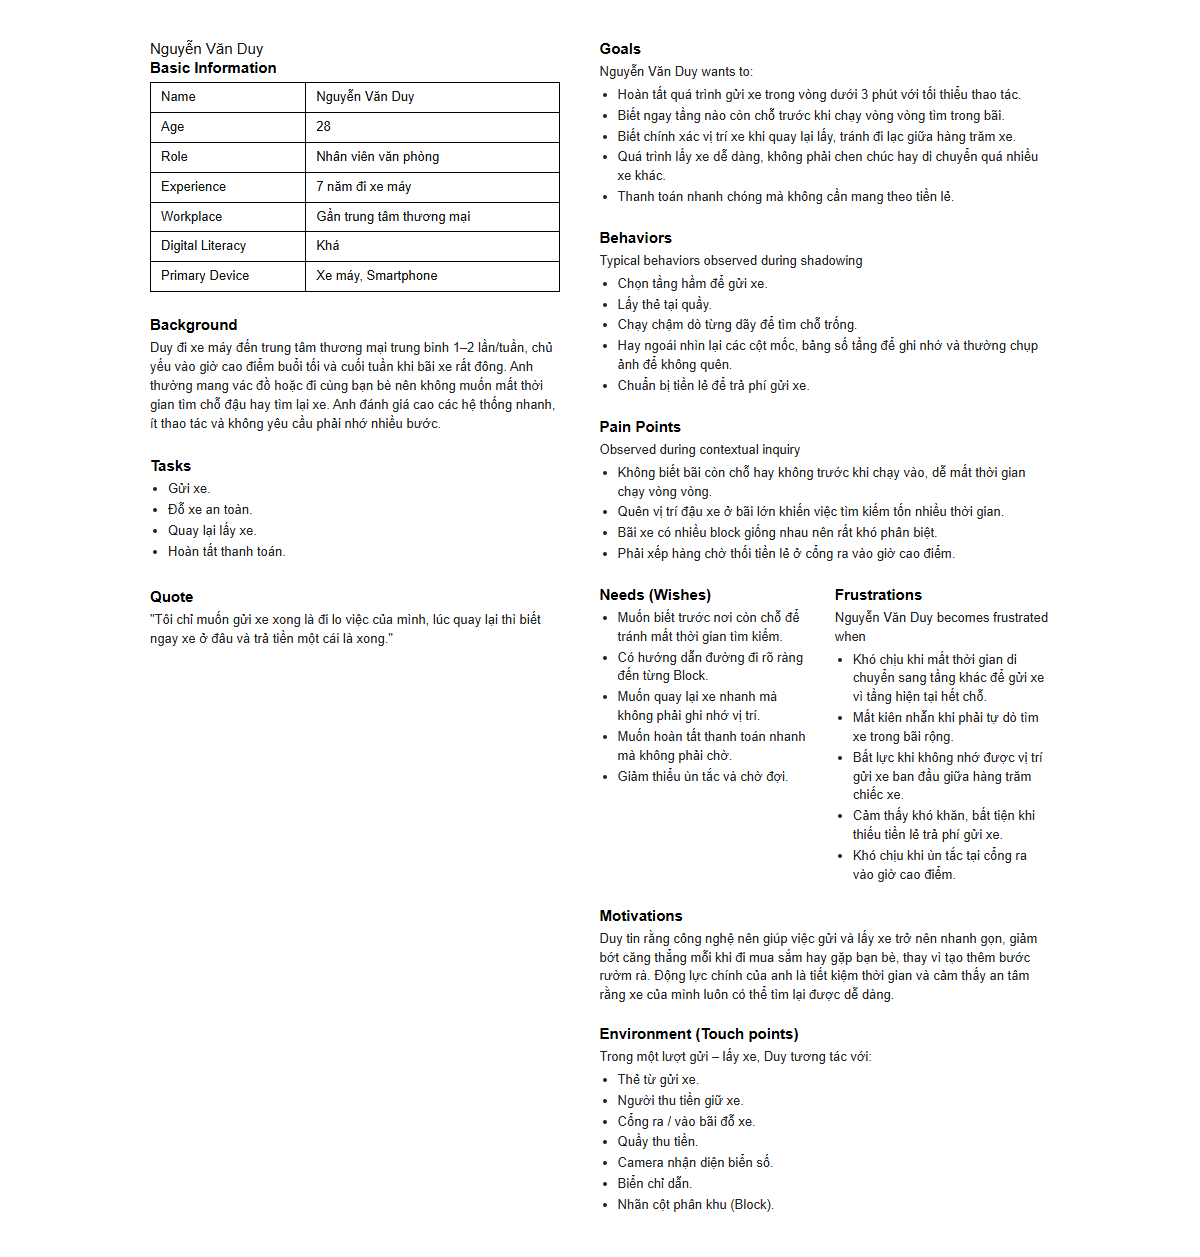
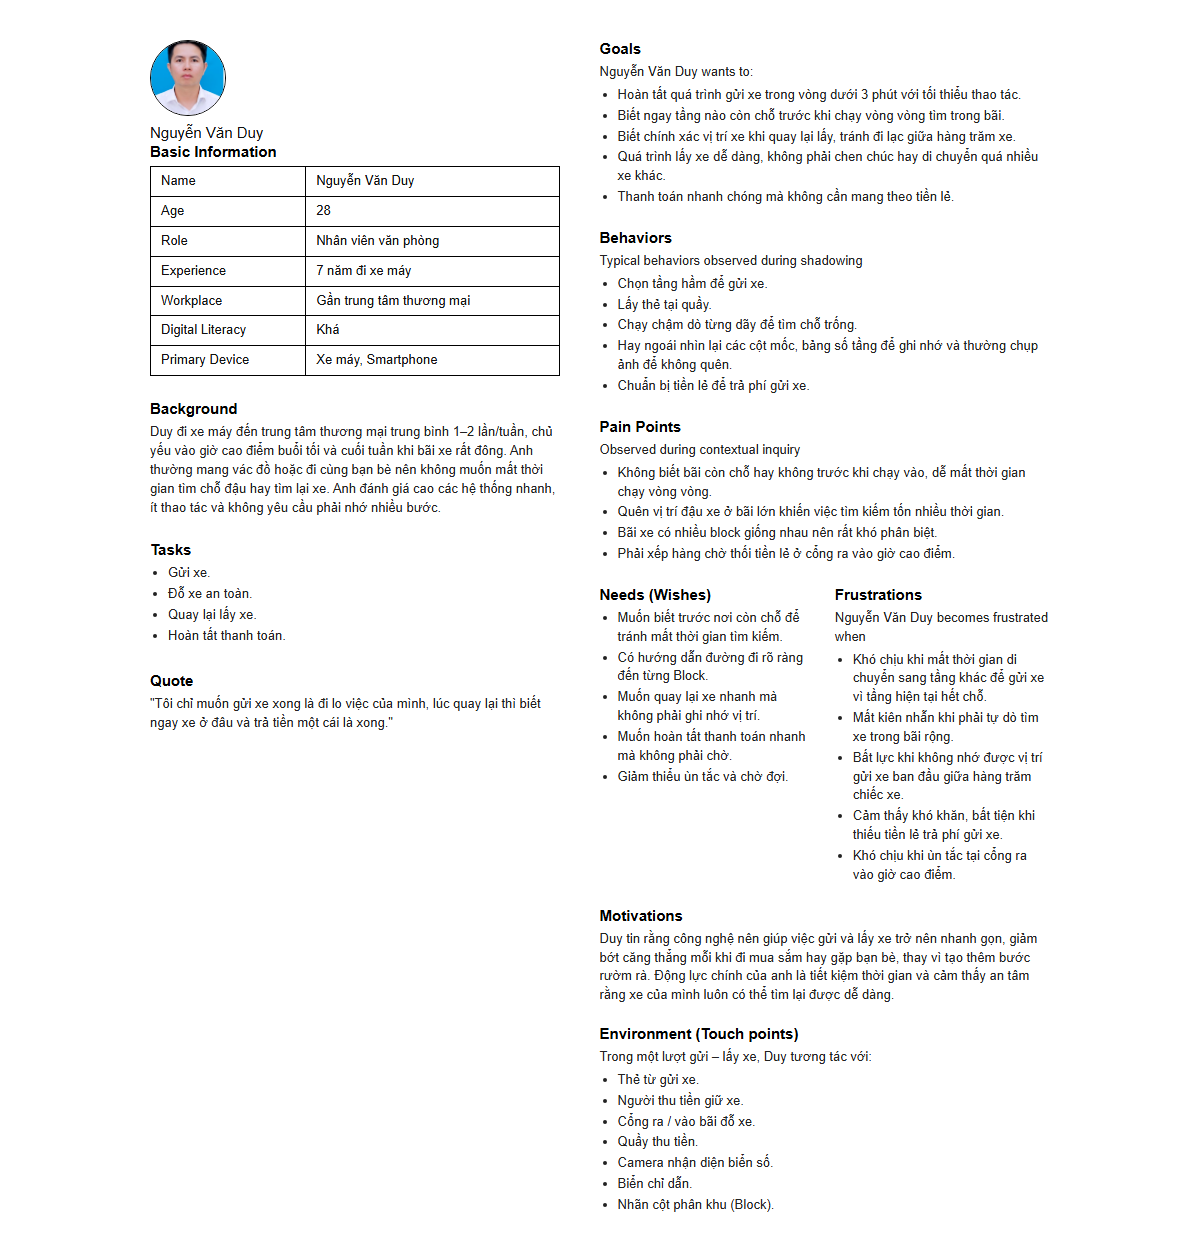
add persona

Changed region(s): [[0.1233, 0.031, 0.4625, 0.5895]]

diff --git a/templates/persona/index.html b/templates/persona/index.html
@@ -11,6 +11,7 @@
     <!-- CỘT TRÁI (LEFT COLUMN) -->
     <div class="left-column">
       <div class="basic-info-group">
+        <img class="persona-portrait" src="../../data/persona/anh_chan_dung.jpg" alt="Portrait of Nguyen Van Duy">
         <div class="persona-name">Nguyễn Văn Duy</div>
         <h2>Basic Information</h2>
         <table class="info-table">

diff --git a/templates/persona/style.css b/templates/persona/style.css
@@ -41,6 +41,16 @@ body {
   margin-bottom: 2px;
 }
 
+.persona-portrait {
+  display: block;
+  width: 76px;
+  height: 76px;
+  margin-bottom: 8px;
+  border: 1.5px solid #000000;
+  border-radius: 50%;
+  object-fit: cover;
+}
+
 h2 {
   font-size: 15px;
   font-weight: bold;

diff --git a/data/persona/persona_tran_thi_hoa.md b/data/persona/persona_tran_thi_hoa.md
@@ -1,0 +1,89 @@
+# User Persona: Trần Thị Hoa
+
+> *"Em ít khi gửi xe kiểu này lắm, chỉ sợ bấm sai hay quên bước nào đó thôi."*
+
+---
+
+## 1. Thông tin cơ bản (Basic Information)
+
+| Mục | Thông tin |
+| :--- | :--- |
+| **Tên** | Trần Thị Hoa |
+| **Tuổi** | 21 |
+| **Nghề nghiệp** | Sinh viên |
+| **Kinh nghiệm đi xe máy** | 3 năm |
+| **Tần suất đến TTTM** | 1–2 lần/tháng |
+| **Mức độ am hiểu công nghệ** | Trung bình |
+
+---
+
+## 2. Bối cảnh (Background)
+
+Hoa đi xe máy đến trung tâm thương mại khoảng 1–2 lần/tháng cùng nhóm bạn. Vì tần suất ghé không thường xuyên nên cô ít quen thuộc với luồng di chuyển và quy trình vận hành của bãi xe. Khi tiếp xúc với thiết bị tự động hoặc công nghệ mới lạ, Hoa thường cảm thấy bối rối, e dè và sợ làm sai thao tác.
+
+---
+
+## 3. Mục tiêu (Goals)
+
+Hoa muốn:
+- Gửi xe thuận lợi mà không sợ làm sai thao tác dù ít khi sử dụng hệ thống.
+- Hiểu ngay các chỉ dẫn và quy trình mà không cần phải nhờ sự trợ giúp từ người khác.
+- Tìm lại xe một cách dễ dàng khi ra về dù không nhớ rõ vị trí đỗ ban đầu.
+- Tránh cảm giác lúng túng, bối rối trước mặt bạn bè và những người xung quanh.
+
+---
+
+## 4. Nhiệm vụ chính (Tasks)
+
+1. Gửi xe.
+2. Đỗ xe.
+3. Quay lại lấy xe.
+4. Hoàn tất thanh toán.
+
+---
+
+## 5. Hành vi điển hình (Behaviors)
+
+Quan sát được khi gửi/lấy xe:
+- Thường đi cùng nhóm bạn nên mải trò chuyện, ít chủ động chú ý các cột mốc xung quanh lúc đỗ xe.
+- Hay quên chụp ảnh lại khu vực và vị trí đỗ xe.
+- Khi gặp thiết bị lạ hoặc chưa quen luồng, có xu hướng ngập ngừng, dừng lại quan sát người đi trước thao tác rồi mới làm theo.
+- Lúng túng kiểm tra lại thẻ/màn hình để chắc chắn mình đã hoàn thành bước gửi xe.
+
+---
+
+## 6. Điểm tiếp xúc / Môi trường (Environment & Touch Points)
+
+Trong một lượt gửi – lấy xe, Hoa tương tác với:
+- Thẻ từ gửi xe.
+- Cổng ra / vào bãi đỗ xe.
+- Biển chỉ dẫn hướng đi và lối thoát.
+- Nhãn cột phân khu (Block).
+- Màn hình/thiết bị tương tác tại cổng.
+
+---
+
+## 7. Điểm đau (Pain Points)
+
+Quan sát được trong quá trình khảo sát:
+- Hệ thống thiếu phản hồi rõ ràng khiến Hoa không chắc mình đã thao tác đúng hay chưa.
+- Rất dễ hoảng loạn, bối rối khi quay lại tìm xe vì không có thói quen ghi nhớ cột mốc.
+- Ngại ngùng khi phải hỏi nhân viên hoặc bảo vệ vì sợ làm phiền hoặc sợ bị đánh giá.
+- Lo sợ thao tác chậm làm ùn tắc và ảnh hưởng đến những người xếp hàng phía sau.
+
+---
+
+## 8. Nhu cầu & Sự ức chế (Needs & Frustrations)
+
+| Nhu cầu (Needs / Wishes) | Sự ức chế (Frustrations) |
+| :--- | :--- |
+| Có hướng dẫn từng bước rõ ràng, trực quan ngay trên màn hình. | Không chắc mình đã làm đúng thao tác hay chưa do hệ thống thiếu tín hiệu phản hồi. |
+| Nhận được phản hồi tức thì (âm thanh/hình ảnh) xác nhận thao tác thành công. | Dễ hoảng sợ, lo lắng khi lạc giữa bãi rộng và không tìm thấy xe của mình. |
+| Giải pháp tìm lại vị trí xe thông minh, không đòi hỏi người dùng phải tự nhớ trước bất kỳ mốc nào. | Ngại hỏi nhân viên hỗ trợ vì thấy phiền và sợ làm mất thời gian của người khác. |
+| Luồng thao tác trực quan, thân thiện với người ít khi sử dụng hệ thống. | Cảm giác bối rối, tự ti khi lóng ngóng trước mặt bạn bè và đám đông. |
+
+---
+
+## 9. Động lực (Motivations)
+
+Hoa mong muốn có một trải nghiệm gửi và lấy xe thật nhẹ nhàng, đơn giản và trực quan. Động lực chính của cô là **sự tự tin và cảm giác an tâm** — không phải lo lắng về việc bấm nhầm/làm sai quy trình, cũng như không bị bối rối hay áp lực trước mặt bạn bè mỗi khi tương tác với hệ thống lạ.
